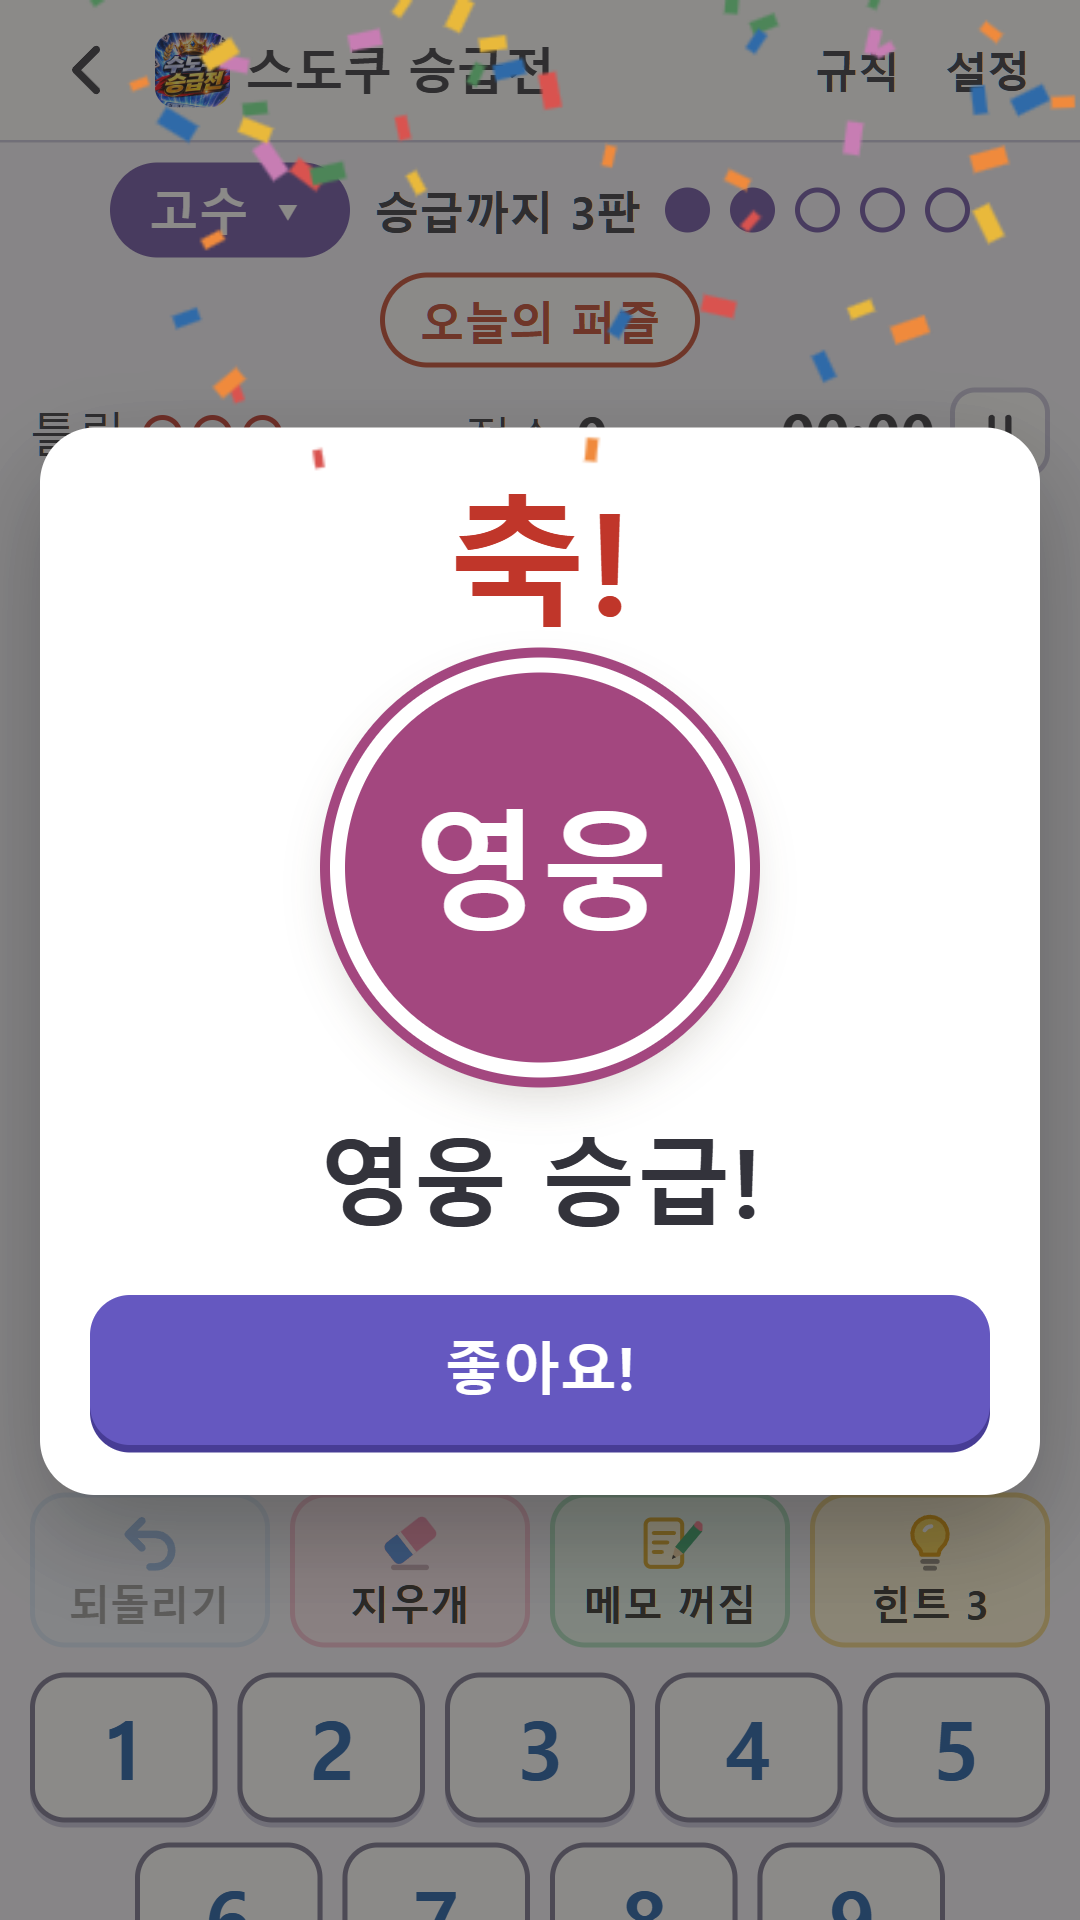
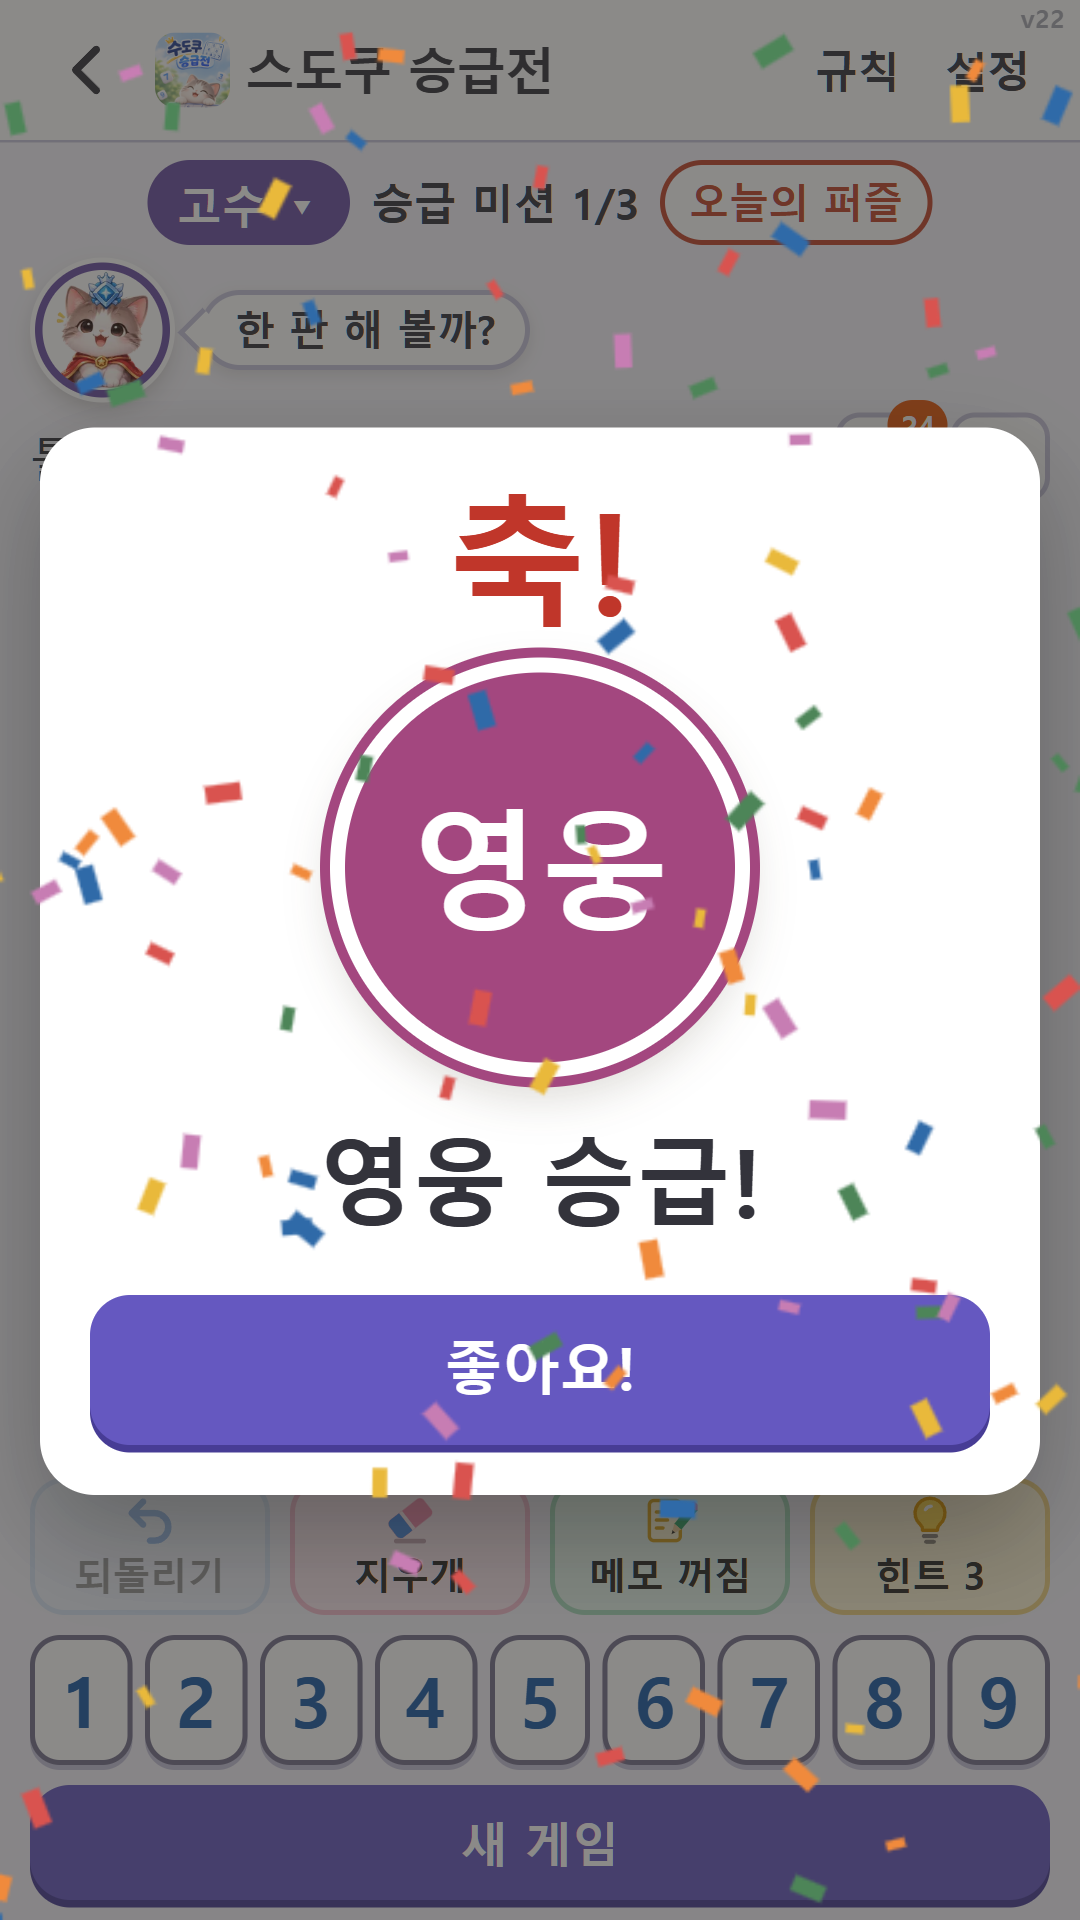
플레이스토어 대표 그림과 스크린샷을 새 고양이 디자인으로 다시 만듦 (따라 하기 대신 승급 미션 화면)

diff --git a/store/feature-graphic.html b/store/feature-graphic.html
@@ -6,66 +6,68 @@
 <!--
   플레이스토어 "그래픽 이미지(1024×500)"를 만드는 페이지입니다.
   글자를 고친 뒤 store/make-images.js 를 다시 돌리면 feature-graphic.png 가 새로 만들어집니다.
+  그림 : img/gate.webp (시작 그림), img/chars.webp (등급별 고양이)
 -->
 <style>
   * { box-sizing: border-box; margin: 0; }
   html, body { width: 1024px; height: 500px; overflow: hidden; }
   body {
+    position: relative;
     font-family: "Pretendard", "Apple SD Gothic Neo", "Malgun Gothic", "Noto Sans KR", sans-serif;
-    background: linear-gradient(135deg, #f6f1e6 0%, #efe6d2 100%);
-    color: #2b2a26; word-break: keep-all;
-    display: flex; align-items: center; gap: 40px; padding: 0 56px;
+    background: linear-gradient(180deg, #8cc3fb 0%, #c4e1fe 55%, #e9f5ff 100%);
+    color: #1d2f6b; word-break: keep-all;
   }
-  .text { flex: 1; }
-  .logo { display: flex; align-items: center; gap: 16px; margin-bottom: 22px; }
-  .logo img { width: 76px; height: 76px; border-radius: 18px; box-shadow: 0 6px 16px rgba(40, 30, 10, 0.18); }
-  h1 { white-space: nowrap; font-size: 60px; font-weight: 900; letter-spacing: -2px; line-height: 1.1; }
-  .tag { font-size: 30px; font-weight: 700; line-height: 1.4; color: #3d3a33; }
-  .grades { display: flex; gap: 8px; margin-top: 26px; flex-wrap: wrap; }
-  .grades span { color: #fff; font-size: 20px; font-weight: 800; padding: 4px 14px; border-radius: 999px; }
-  .board {
-    flex: none; width: 340px; height: 340px;
-    display: grid; grid-template-columns: repeat(9, 1fr);
-    background: #fffdf8; border: 4px solid #4a463d; border-radius: 10px; overflow: hidden;
-    box-shadow: 0 18px 40px rgba(40, 30, 10, 0.25); transform: rotate(3deg);
+  /* 오른쪽 : 시작 그림에서 고양이와 판 부분 (왼쪽 가장자리는 하늘로 스며들게) */
+  .art {
+    position: absolute; right: 0; top: 0; width: 520px; height: 500px;
+    background: url("../img/gate.webp") no-repeat;
+    background-size: 560px auto;           /* 941×1672 → 560×995 */
+    background-position: -20px -360px;     /* 고양이 얼굴과 판 윗부분이 가운데 오게 */
+    -webkit-mask-image: linear-gradient(90deg, transparent 0, #000 120px);
+    mask-image: linear-gradient(90deg, transparent 0, #000 120px);
   }
-  .board b {
-    display: flex; align-items: center; justify-content: center;
-    font-size: 24px; font-weight: 800; border-right: 1px solid #cfc6b4; border-bottom: 1px solid #cfc6b4;
+  .text { position: absolute; left: 56px; top: 0; bottom: 0; width: 520px; display: flex; flex-direction: column; justify-content: center; }
+  .crown { font-size: 40px; line-height: 1; margin-bottom: 4px; }
+  h1 {
+    font-size: 84px; font-weight: 900; letter-spacing: -3px; line-height: 1.02; color: #1d2f6b;
+    text-shadow: 0 4px 0 #fff, 0 -2px 0 #fff, 3px 0 0 #fff, -3px 0 0 #fff, 0 10px 18px rgba(30, 60, 140, 0.25);
   }
-  .board b.u { color: #1b5aa6; }
-  .board b.s { background: #ffd35c; }
-  .board b.p { background: #ece5d3; }
+  h1 span { color: #2d6fe0; }
+  .tag { margin-top: 18px; font-size: 27px; font-weight: 800; line-height: 1.4; color: #24407e; }
+  .cats { display: flex; align-items: flex-end; gap: 6px; margin-top: 22px; }
+  .cat {
+    width: 74px; height: 74px; border-radius: 50%;
+    background: #fff url("../img/chars.webp") 0 0 / 1400% 600% no-repeat;
+    border: 3px solid #fff; box-shadow: 0 4px 10px rgba(30, 60, 140, 0.25);
+  }
+  .cat.big { width: 92px; height: 92px; }
+  .arrow { align-self: center; font-size: 26px; font-weight: 900; color: #2d6fe0; margin: 0 2px; }
 </style>
 </head>
 <body>
+  <div class="art" aria-hidden="true"></div>
   <div class="text">
-    <div class="logo"><img src="../icons/icon-512.png" alt=""><h1>스도쿠 승급전</h1></div>
-    <p class="tag">하수에서 시작해 신까지,<br>한 단계씩 올라가는 스도쿠</p>
-    <div class="grades">
-      <span style="background:#6f7f8c">하수</span><span style="background:#4d8558">평민</span><span style="background:#2f6aa8">중수</span>
-      <span style="background:#6a4fa3">고수</span><span style="background:#a3477f">영웅</span><span style="background:#1f1f1f">신</span>
-    </div>
+    <div class="crown" aria-hidden="true">👑</div>
+    <h1>스도쿠<br><span>승급전</span></h1>
+    <p class="tag">하수에서 신까지, 미션을 깨며<br>한 단계씩 올라가는 스도쿠</p>
+    <div class="cats" id="cats"></div>
   </div>
-  <div class="board" id="board"></div>
   <script>
-    // 그림용 9×9 판 (정답판 일부만 보여 줌)
-    var sol = '534678912672195348198342567859761423426853791713924856961537284287419635345286179';
-    var show = '530000900600195000098000060800060003400803001700020006060000280000419005000080000';
-    var user = { 2: 1, 12: 1, 31: 1, 40: 1, 58: 1 };
-    var board = document.getElementById('board');
-    for (var i = 0; i < 81; i++) {
-      var b = document.createElement('b');
-      var r = Math.floor(i / 9), c = i % 9;
-      if (c % 3 === 2 && c < 8) b.style.borderRight = '3px solid #4a463d';
-      if (r % 3 === 2 && r < 8) b.style.borderBottom = '3px solid #4a463d';
-      var v = show[i] !== '0' ? show[i] : (user[i] ? sol[i] : '');
-      b.textContent = v;
-      if (user[i]) b.className = 'u';
-      if (i === 40) b.className = 'u s';
-      else if (r === 4 || c === 4) b.className += ' p';
-      board.appendChild(b);
-    }
+    // 등급별 고양이 (chars.webp 의 칸 번호 : 0 = 가장 낮은 등급 … 13 = 가장 높은 등급), 기본 표정 줄
+    var cols = [0, 4, 9, 13];
+    var box = document.getElementById('cats');
+    cols.forEach(function (c, i) {
+      if (i) {
+        var a = document.createElement('span');
+        a.className = 'arrow';
+        a.textContent = '›';
+        box.appendChild(a);
+      }
+      var el = document.createElement('span');
+      el.className = 'cat' + (i === cols.length - 1 ? ' big' : '');
+      el.style.backgroundPosition = (c / 13) * 100 + '% 20%'; // 2번째 줄(기쁨) = 1/5 = 20%
+      box.appendChild(el);
+    });
   </script>
 </body>
 </html>

diff --git a/store/make-images.js b/store/make-images.js
@@ -17,19 +17,24 @@ const BASE = 'http://127.0.0.1:8765/';
 const SHOTS = path.join(__dirname, 'screenshots');
 fs.mkdirSync(SHOTS, { recursive: true });
 
-/* 스크린샷에 쓸 기록 : 고수 등급, 배지 몇 개 받은 상태 */
+/* 스크린샷에 쓸 기록 : 고수 등급, 승급 미션 일부 완료, 배지 몇 개 받은 상태 */
 const SAVE = {
-  version: 1, gradeIndex: 3, wins: 2, failStreak: 0, totalWins: 27, totalGames: 31,
+  version: 1, gradeIndex: 3, wins: 3, failStreak: 0, totalWins: 27, totalGames: 31,
+  mission: { perfect: 2, nohint: 1, fast: 0, streak: 3, best: 3 },
   bestTimes: { hasu: 41, pyeongmin: 118, jungsu: 402, gosu: 515 },
   bestScores: { hasu: 980, pyeongmin: 2650, jungsu: 6120, gosu: 8840 },
   totalScore: 61230, game: null, dailyGame: null,
   daily: { last: '', streak: 0, bestStreak: 8, total: 12, score: 0, seconds: 0 },
-  stats: { perfectWins: 11, noHintWins: 19, hintsUsed: 14, winStreak: 6, bestWinStreak: 9, maxPromoted: 3, wins9: 9, best9: 402 },
-  gradeStats: { gosu: { played: 4, won: 2, sec: 1090 } },
+  stats: { perfectWins: 11, noHintWins: 19, hintsUsed: 14, winStreak: 6, bestWinStreak: 9, maxPromoted: 3, wins9: 9, best9: 402, playSec: 9800 },
+  gradeStats: { gosu: { played: 4, won: 3, sec: 1600, perfect: 2 } },
+  // 오늘 이미 출석한 것으로 (출석 창이 화면을 가리지 않게)
+  attend: { last: new Date().toLocaleDateString('sv-SE'), streak: 3, best: 8, total: 15 },
   badges: {
-    'first-win': '2026-11-01', 'first-promo': '2026-11-02', 'first-9': '2026-11-04', perfect: '2026-11-02',
-    'perfect-10': '2026-11-12', 'no-hint-10': '2026-11-10', 'streak-5': '2026-11-06', 'wins-10': '2026-11-05',
-    'daily-1': '2026-11-03', 'daily-7': '2026-11-10', 'grade-gosu': '2026-11-13'
+    'first-win': '2026-11-01', 'first-promo': '2026-11-02', perfect: '2026-11-02', 'games-10': '2026-11-04',
+    'wins-10': '2026-11-05', 'hint-1': '2026-11-02', 'score-1k': '2026-11-02', 'daily-1': '2026-11-03', 'attend-3': '2026-11-04',
+    'first-9': '2026-11-04', 'grade-gosu': '2026-11-13', 'streak-5': '2026-11-06', 'no-hint-10': '2026-11-10',
+    'perfect-5': '2026-11-09', 'fast-9-10m': '2026-11-11', 'score-10k': '2026-11-08', 'daily-7': '2026-11-10',
+    'attend-7': '2026-11-10', 'play-1h': '2026-11-07', 'perfect-10': '2026-11-12'
   }
 };
 
@@ -47,7 +52,7 @@ async function open(browser, opts, settings, save) {
   const page = await ctx.newPage();
   await page.goto(BASE + 'index.html');
   await page.waitForTimeout(400);
-  await page.click('#splash-start', { force: true }); // 시작 그림의 "지금 시작하기"
+  await page.click('#splash-start', { force: true }); // 시작 그림의 "터치해서 시작하기"
   await page.waitForTimeout(600);
   return { ctx, page };
 }
@@ -130,13 +135,11 @@ async function fillSome(page, ratio) {
   await page.screenshot({ path: path.join(SHOTS, '7-badges.png') });
   await ctx.close();
 
-  // 8. 따라 하기
-  ({ ctx, page } = await open(browser, phone, { tutorialDone: false }, {}));
-  await page.click('#tut-next');
-  await page.click('#tut-next');
-  await page.click('#tut-board .cell[data-idx="2"]');
-  await page.waitForTimeout(500);
-  await page.screenshot({ path: path.join(SHOTS, '8-tutorial.png') });
+  // 8. 승급 미션 창
+  ({ ctx, page } = await open(browser, phone));
+  await page.click('#home-grade');
+  await page.waitForTimeout(400);
+  await page.screenshot({ path: path.join(SHOTS, '8-missions.png') });
   await ctx.close();
 
   // 대표 그림 1024×500
